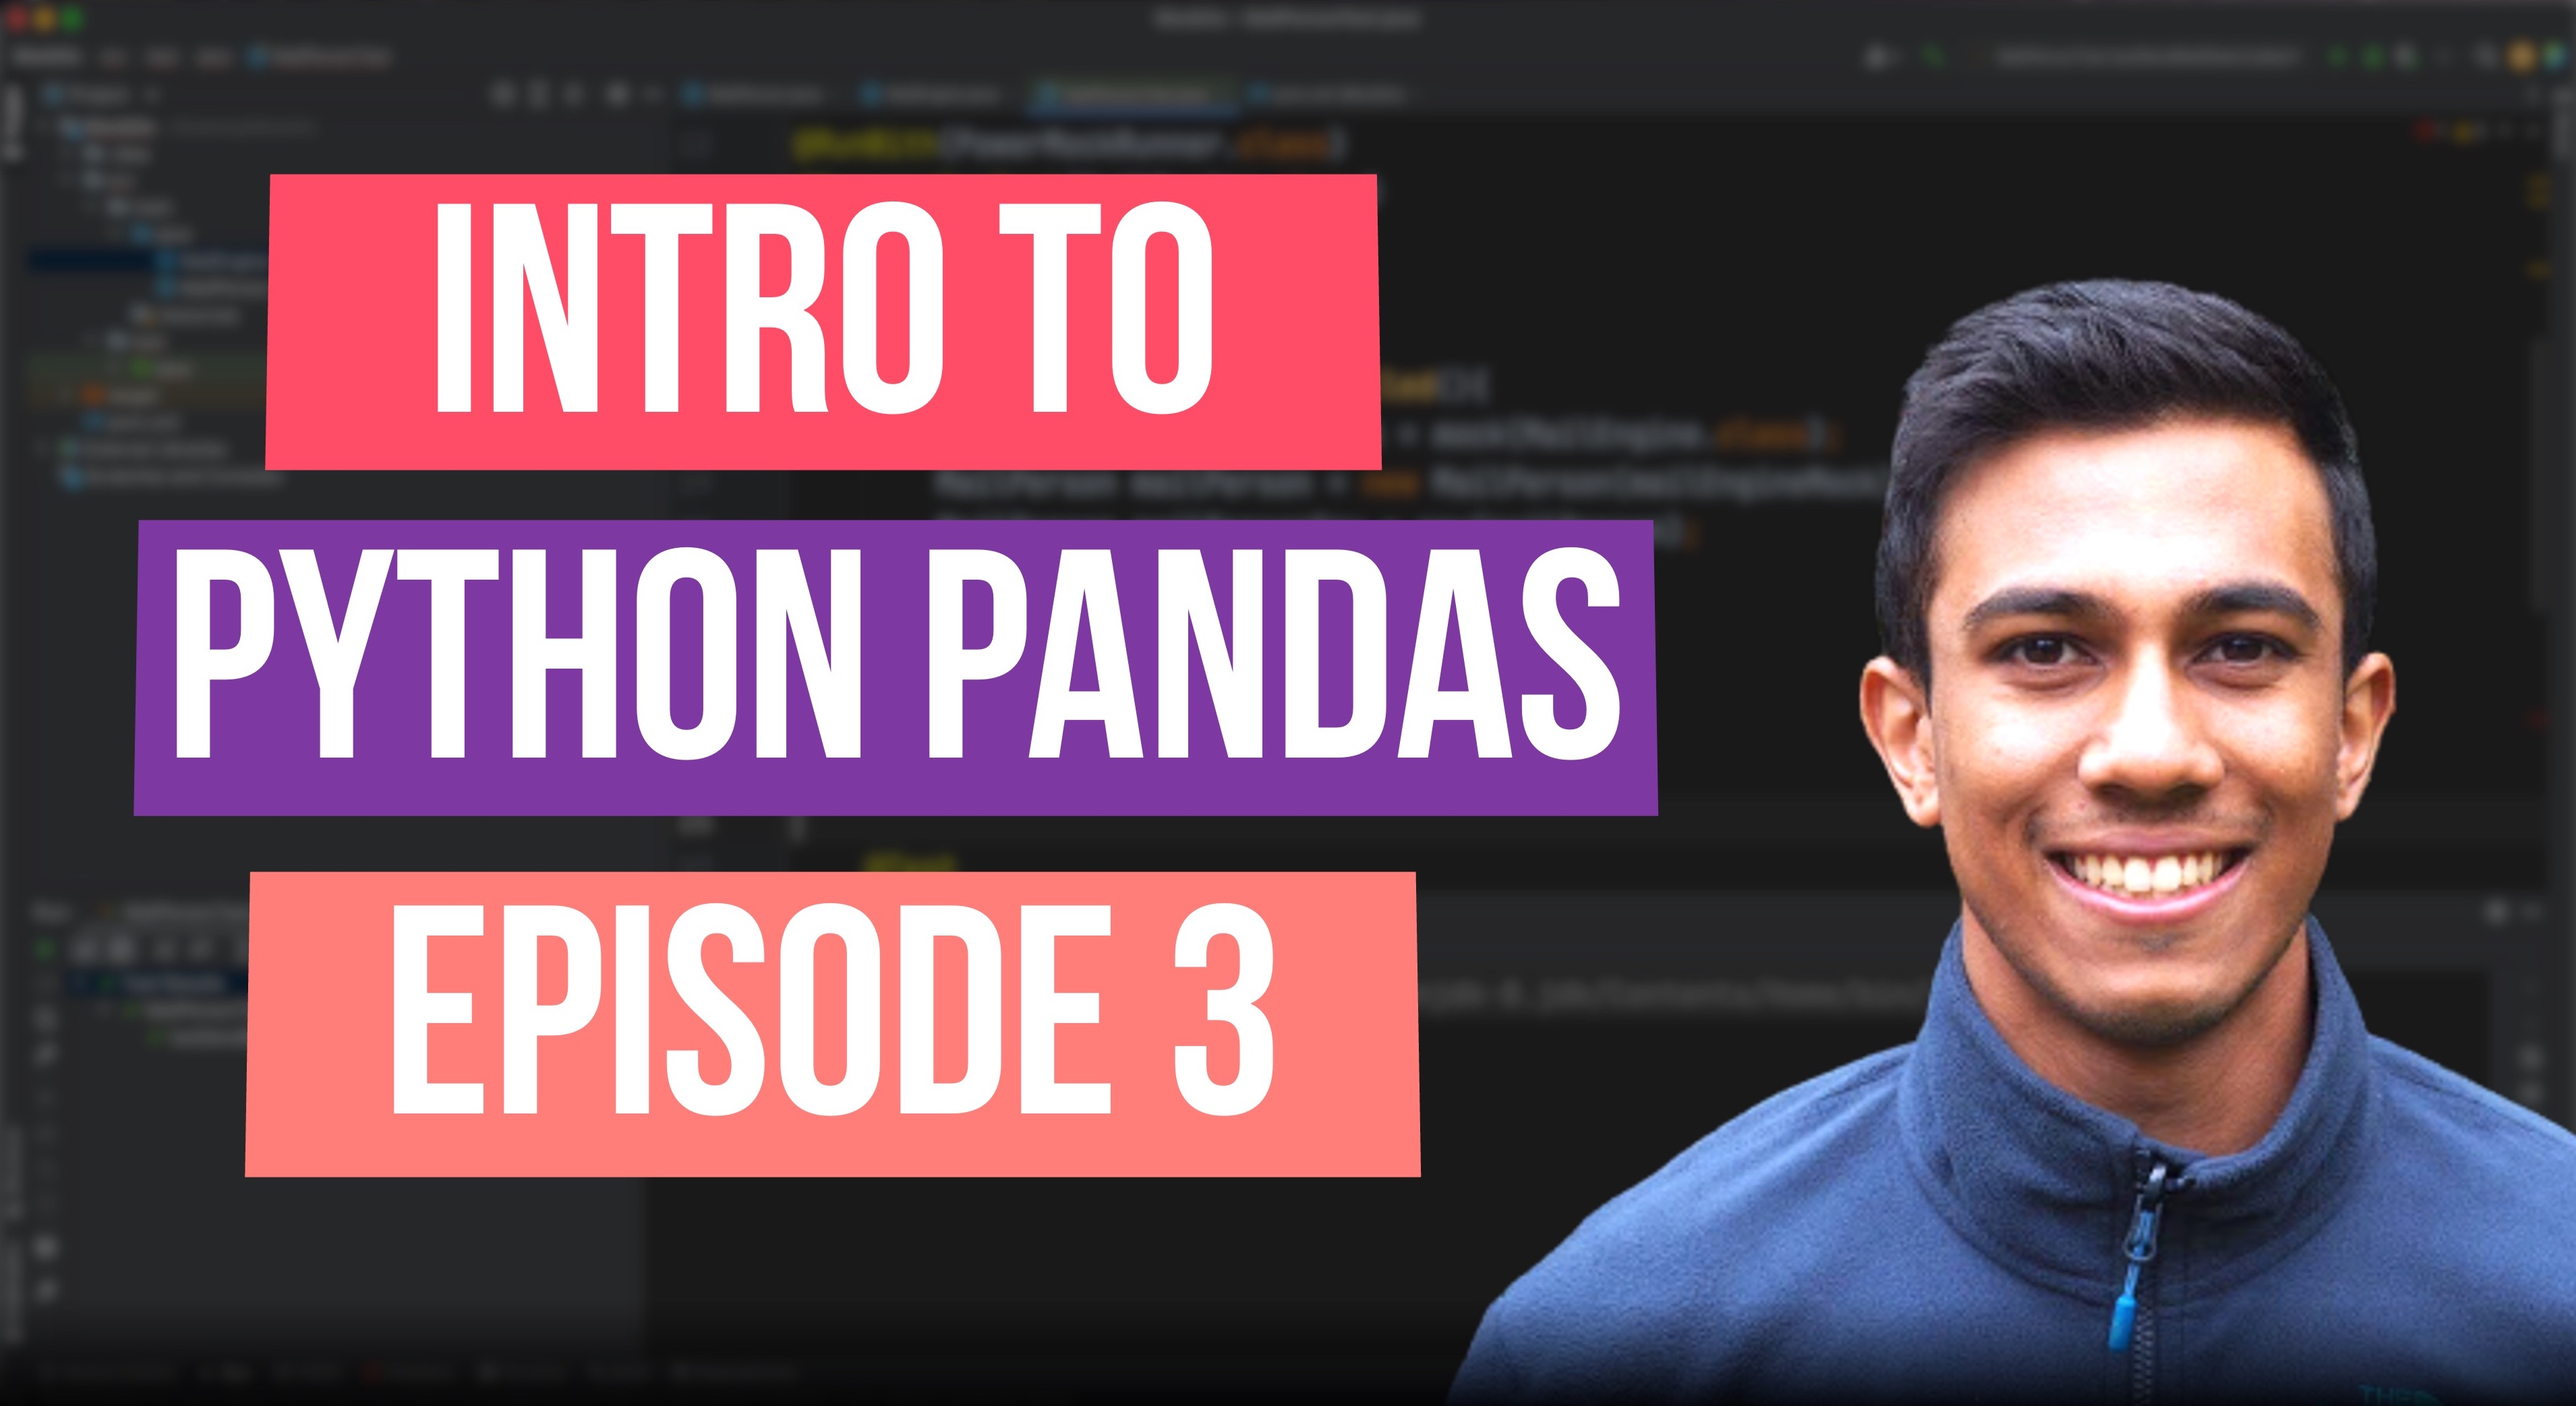
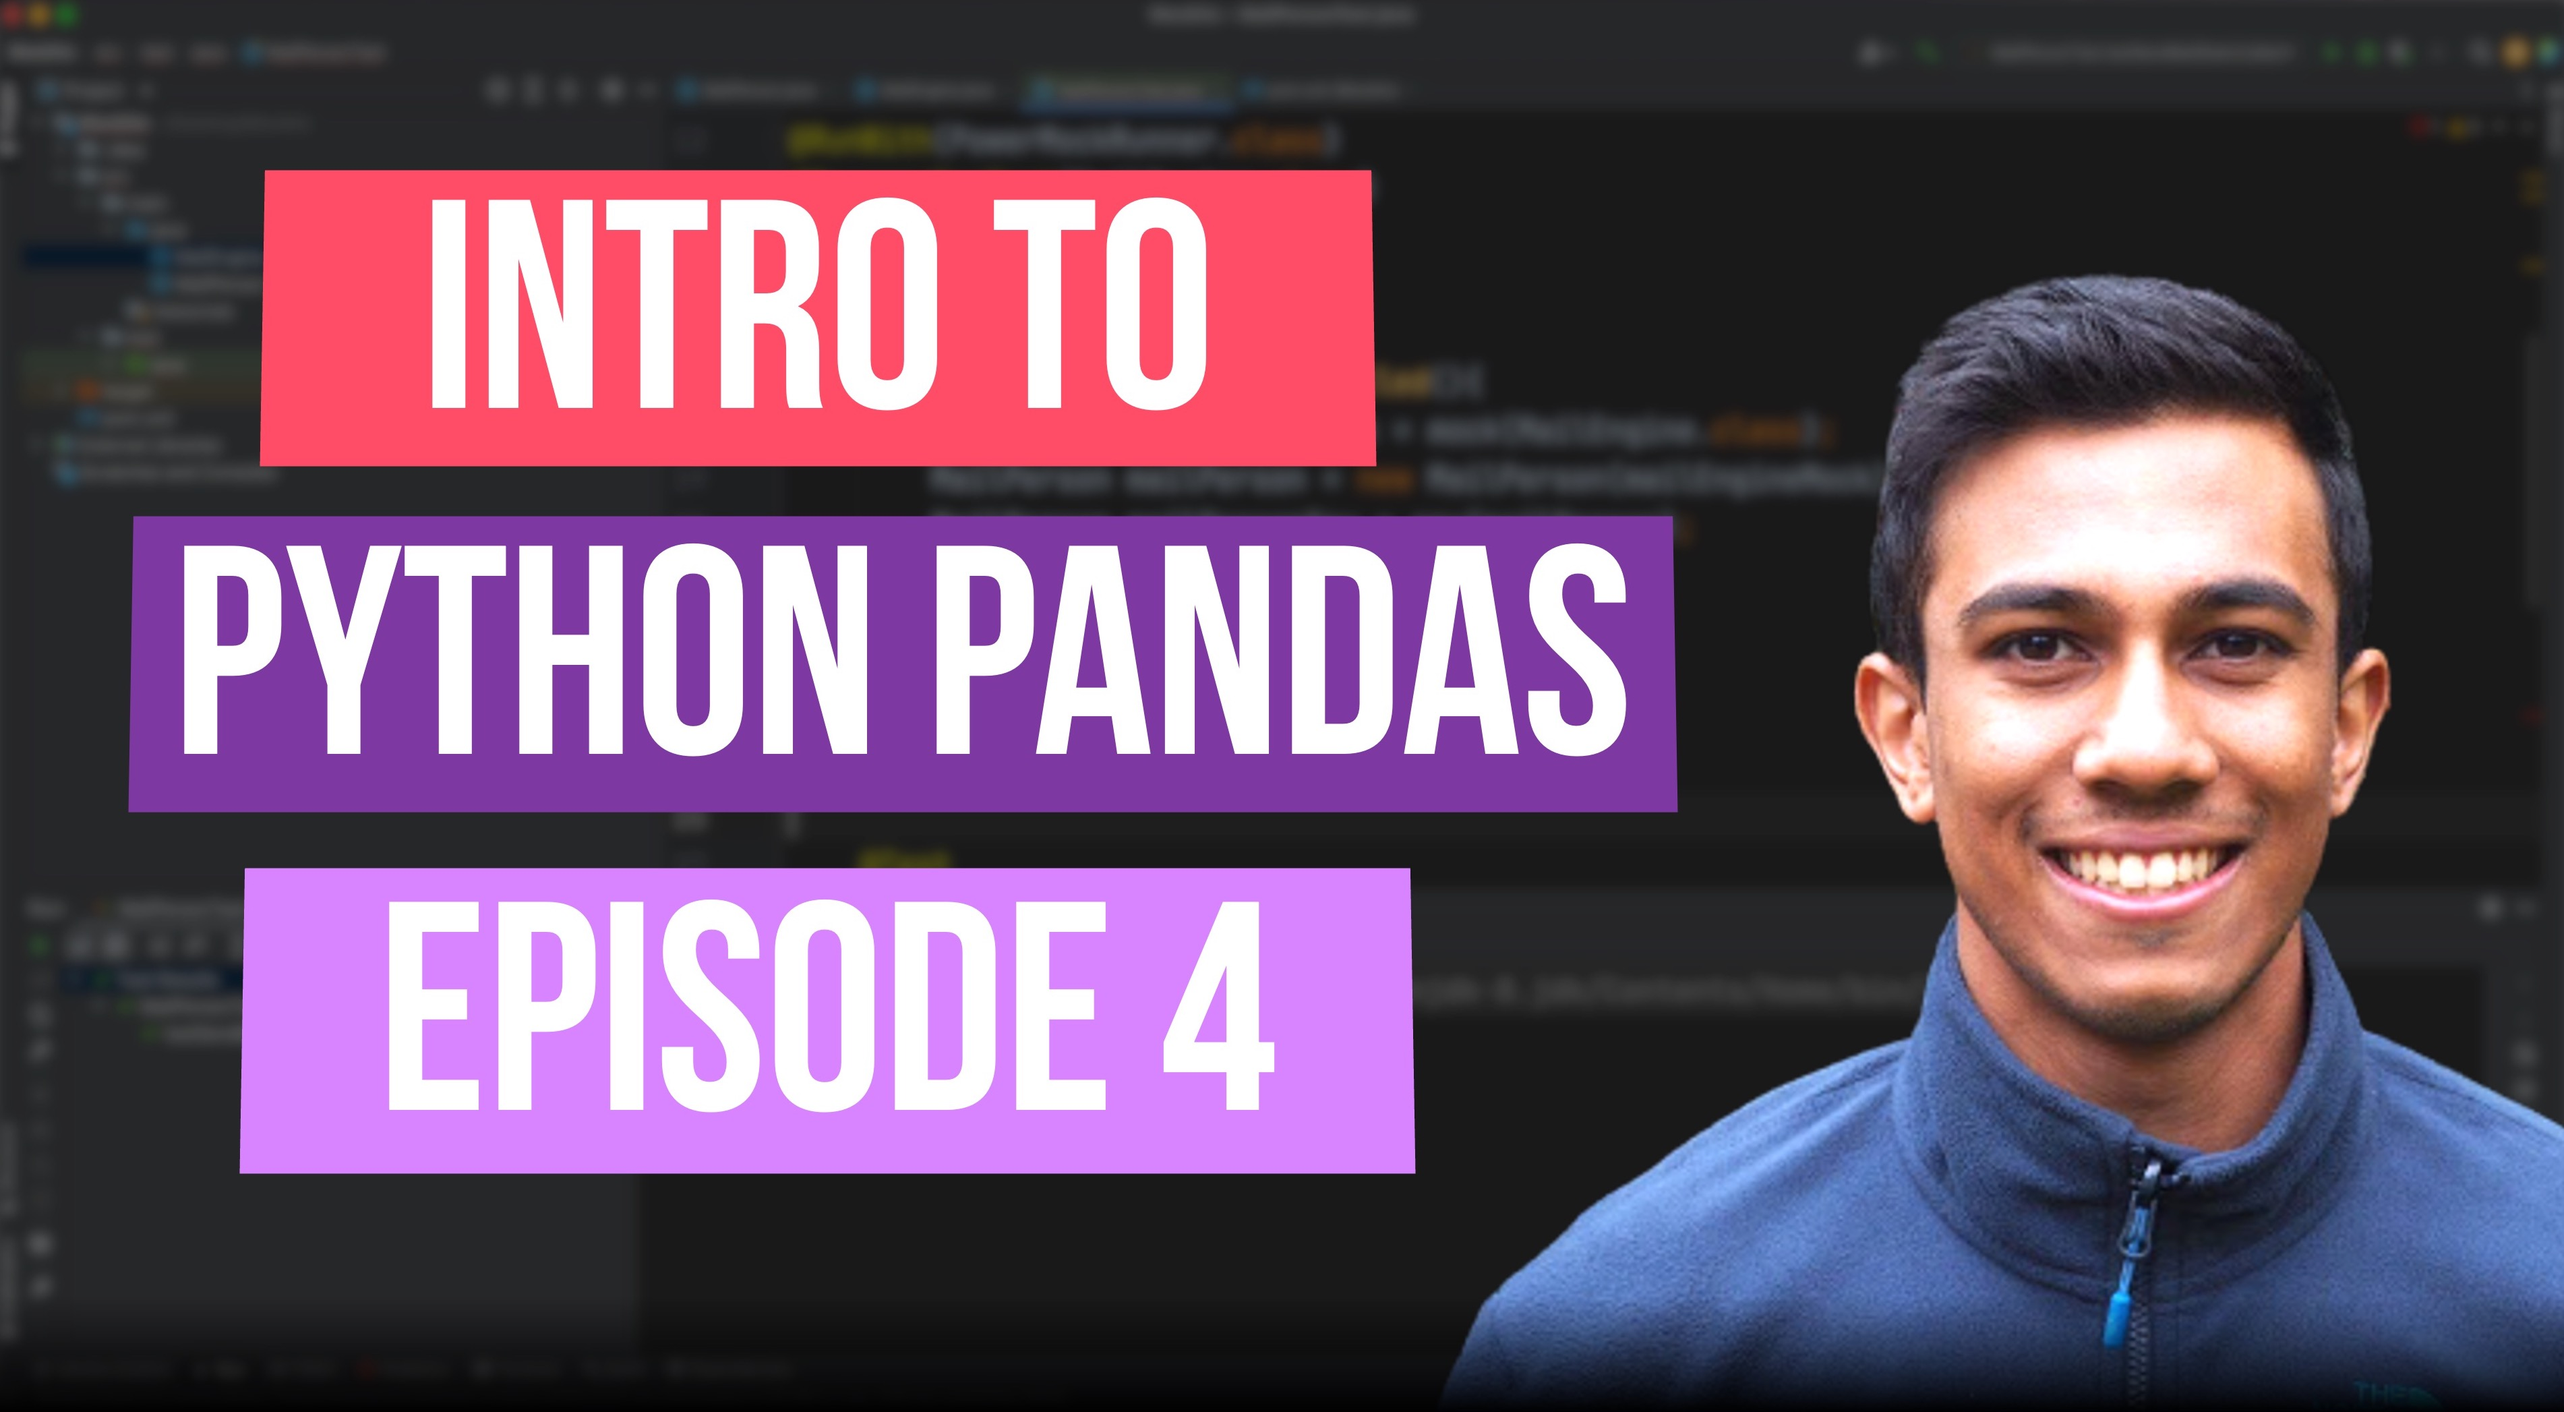
panda 3

diff --git a/src/blogInProgress/129_panda4.md b/src/blogInProgress/129_panda4.md
@@ -1,25 +1,20 @@
 ---
-title: 'Python Pandas '
-date: 2024-02-24
+title: 'How to merge data with Panda DataFrames'
+date: 2024-03-29
 author: 'Aneesh Mistry'
-subtitle: 'Subtitle'
-time: '6'
+subtitle: 'Take a look at inner, outer, left and right joins when using the merge function with pandas'
+time: '10'
 tags:
-- Java
+- Python
 ---
 
 <br>
-<h4>Title</h4>
+<h4>Merging data with Panda DataFrames - Python Tutorial</h4>
 <p>
+Explore some of the ways you can merge DataFrames with the pandas library. This involves handling indexed columns, specifying columns to merge upon and how to merge with an inner, left, right and outer join.
 
-Link to source code: 
+Link to source code: https://github.com/4neesh/YouTube-Channel/tree/main/Python
+File: Pandas 4.ipynb
 
-🕒 Timestamps 🕒
-
-00:00 - Introduction
-00:47 - Logging
-04:09 - Timed
-06:28 - Automated
-
-[![YouTube video link](../images/126_panda1.jpg)](URL)
+[![YouTube video link](../images/129_panda4.jpg)](https://youtu.be/qH8DYzoEqLs)
 </p>
